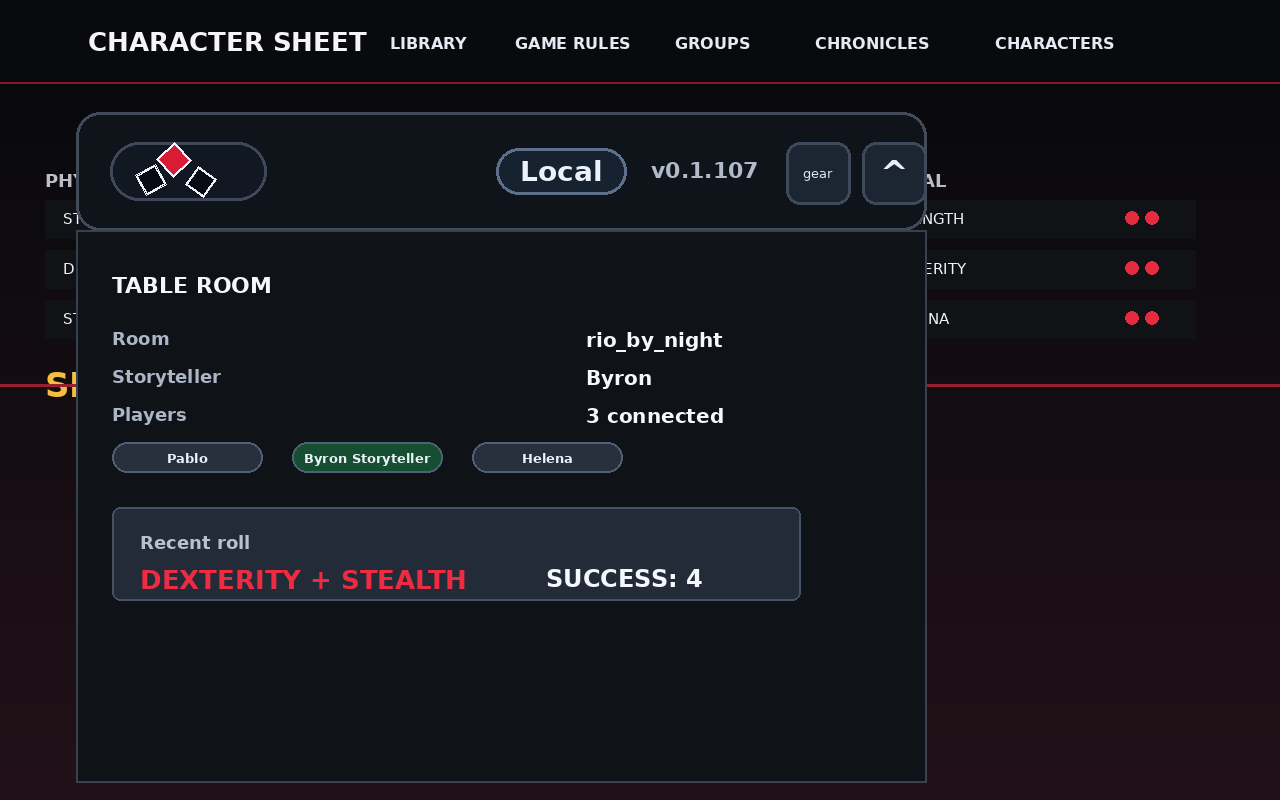
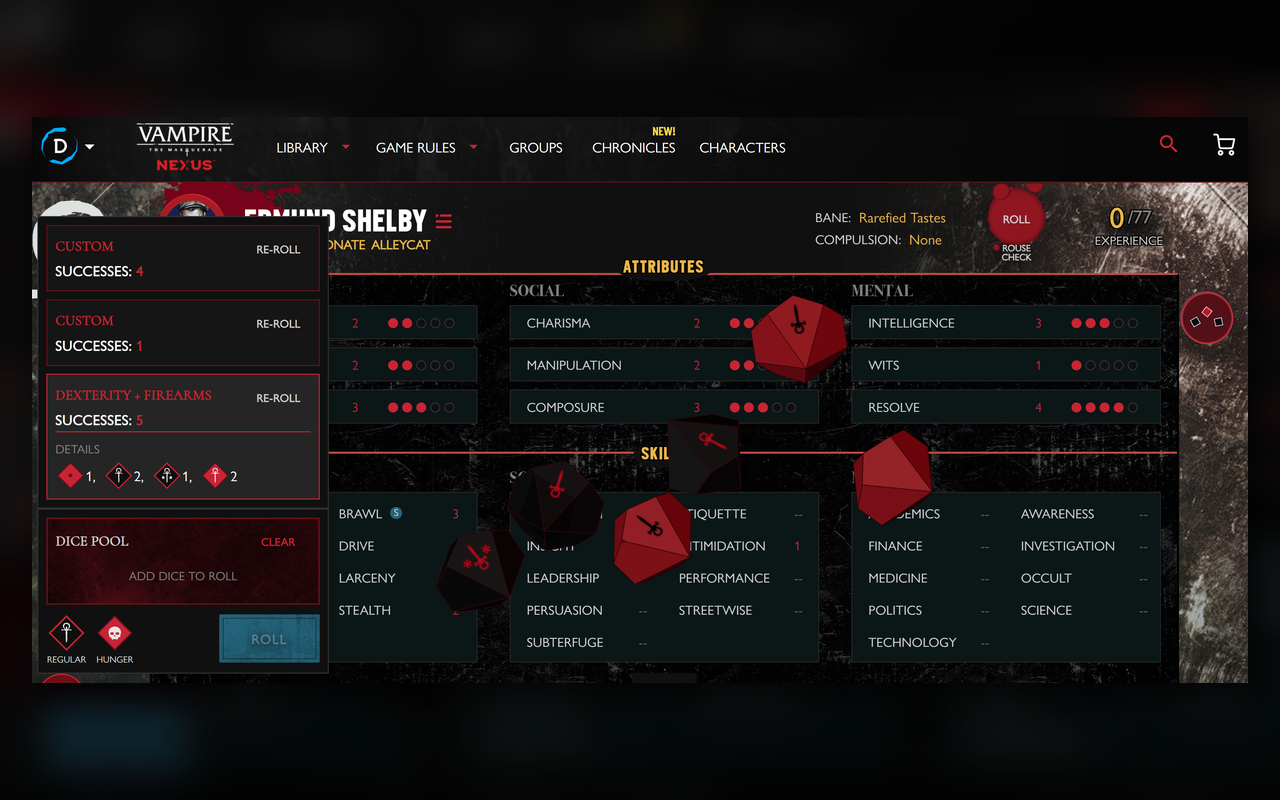
Show real screenshots in project docs

diff --git a/README.md b/README.md
@@ -6,6 +6,12 @@ Extensao de navegador e relay realtime para compartilhar rolagens do Demiplane e
 
 O Demiplane ja permite rolar dados dentro da ficha de personagem, mas o resultado aparece apenas para quem esta vendo aquela ficha. Este projeto cria uma camada paralela: uma extensao observa as rolagens na pagina, publica o resultado em um canal da mesa, e as outras extensoes conectadas ao mesmo canal exibem o historico compartilhado.
 
+## Capturas
+
+![Dados compartilhados sobre a ficha do Demiplane](store-assets/screenshots/edge-real/00-real-shared-dice-over-sheet-1280x800.png)
+
+A galeria real usada nas lojas fica em `store-assets/screenshots/edge-real/`. O primeiro screenshot mostra o ponto forte da extensao: dados compartilhados aparecendo diretamente sobre a ficha, junto do historico nativo de rolagens do Demiplane.
+
 ## Escopo inicial
 
 - Capturar rolagens exibidas na ficha do Demiplane sem modificar a conta, a ficha ou APIs internas.

diff --git a/docs/store-submission.md b/docs/store-submission.md
@@ -103,11 +103,17 @@ Generated assets live in `store-assets/`.
 - `store-assets/icon-300.png`
 - `store-assets/promo-small-440x280.png`
 - `store-assets/promo-large-1400x560.png`
+
+Use the real screenshots first in public listings and project documentation:
+
 - `store-assets/screenshots/edge-real/00-real-shared-dice-over-sheet-1280x800.png`
 - `store-assets/screenshots/edge-real/01-real-demiplane-roll-1280x800.png`
 - `store-assets/screenshots/edge-real/02-real-roll-history-1280x800.png`
 - `store-assets/screenshots/edge-real/03-real-room-settings-1280x800.png`
 - `store-assets/screenshots/edge-real/04-real-compact-panel-1280x800.png`
+
+The Chrome/Edge/Firefox filenames below are compatibility copies using real screenshots:
+
 - `store-assets/screenshots/chrome-edge-firefox/01-room-panel-1280x800.png`
 - `store-assets/screenshots/chrome-edge-firefox/02-shared-dice-1280x800.png`
 - `store-assets/screenshots/chrome-edge-firefox/03-advanced-settings-1280x800.png`